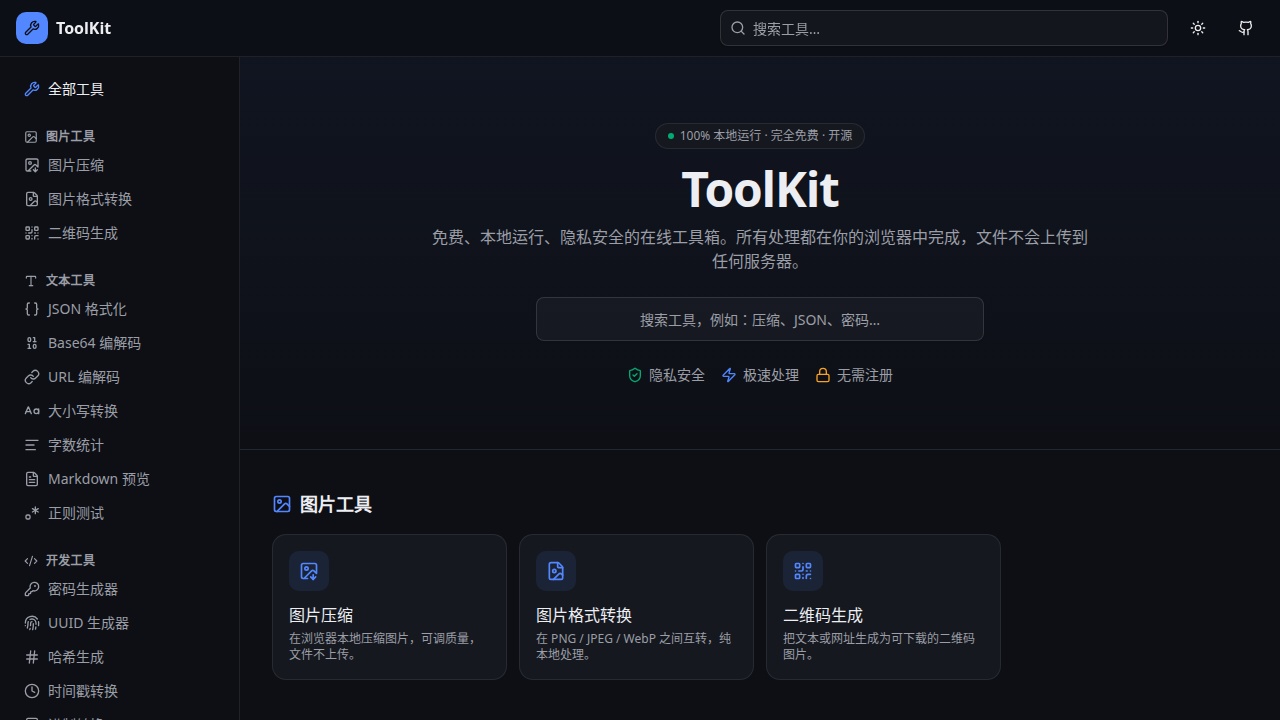
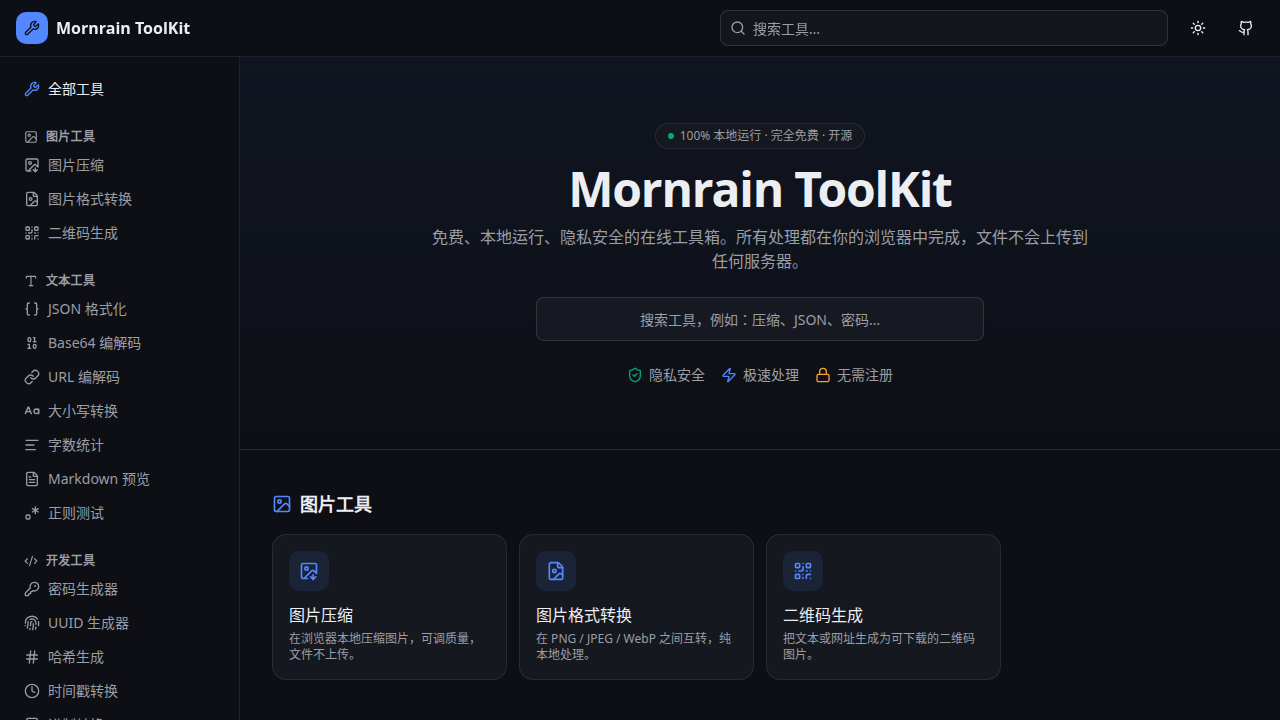
docs: 更新开发者 mornrain.lin 与官网 mornrain.com / mornrain.cn

Changed region(s): [[0.4375, 0.2139, 0.75, 0.3056], [0.0312, 0.0306, 0.1562, 0.0611]]

diff --git a/frontend/src/pages/Home.tsx b/frontend/src/pages/Home.tsx
@@ -110,6 +110,35 @@ export default function Home() {
             <Github className="h-3.5 w-3.5" /> GitHub
           </a>
         </p>
+        <p className="mt-2">
+          开发者{' '}
+          <a
+            href={site.links.website}
+            target="_blank"
+            rel="noreferrer"
+            className="hover:text-foreground"
+          >
+            {site.author}
+          </a>{' '}
+          · 官网{' '}
+          <a
+            href={site.links.website}
+            target="_blank"
+            rel="noreferrer"
+            className="hover:text-foreground"
+          >
+            mornrain.com
+          </a>{' '}
+          ·{' '}
+          <a
+            href={site.links.websiteCn}
+            target="_blank"
+            rel="noreferrer"
+            className="hover:text-foreground"
+          >
+            mornrain.cn
+          </a>
+        </p>
       </footer>
     </div>
   )

diff --git a/frontend/src/lib/site.ts b/frontend/src/lib/site.ts
@@ -4,4 +4,9 @@ export const site = {
   description:
     'ToolKit 是一个纯前端、开源免费的在线工具集合，所有处理都在你的浏览器本地完成，文件不会上传到任何服务器。包含图片、文本、开发、换算四大类共 17 个实用工具。',
   repoUrl: 'https://github.com/mornrain-lin/toolkit',
+  author: 'mornrain.lin',
+  links: {
+    website: 'https://mornrain.com',
+    websiteCn: 'https://mornrain.cn',
+  },
 }

diff --git a/README.md b/README.md
@@ -109,6 +109,12 @@ pnpm build
 
 ---
 
+## 开发者
+
+- 开发者：mornrain.lin
+- 官网：<https://mornrain.com> · <https://mornrain.cn>
+- 仓库：<https://github.com/mornrain-lin/toolkit>
+
 ## License
 
-[MIT](./LICENSE) © Mornrain
+[MIT](./LICENSE) © mornrain.lin
